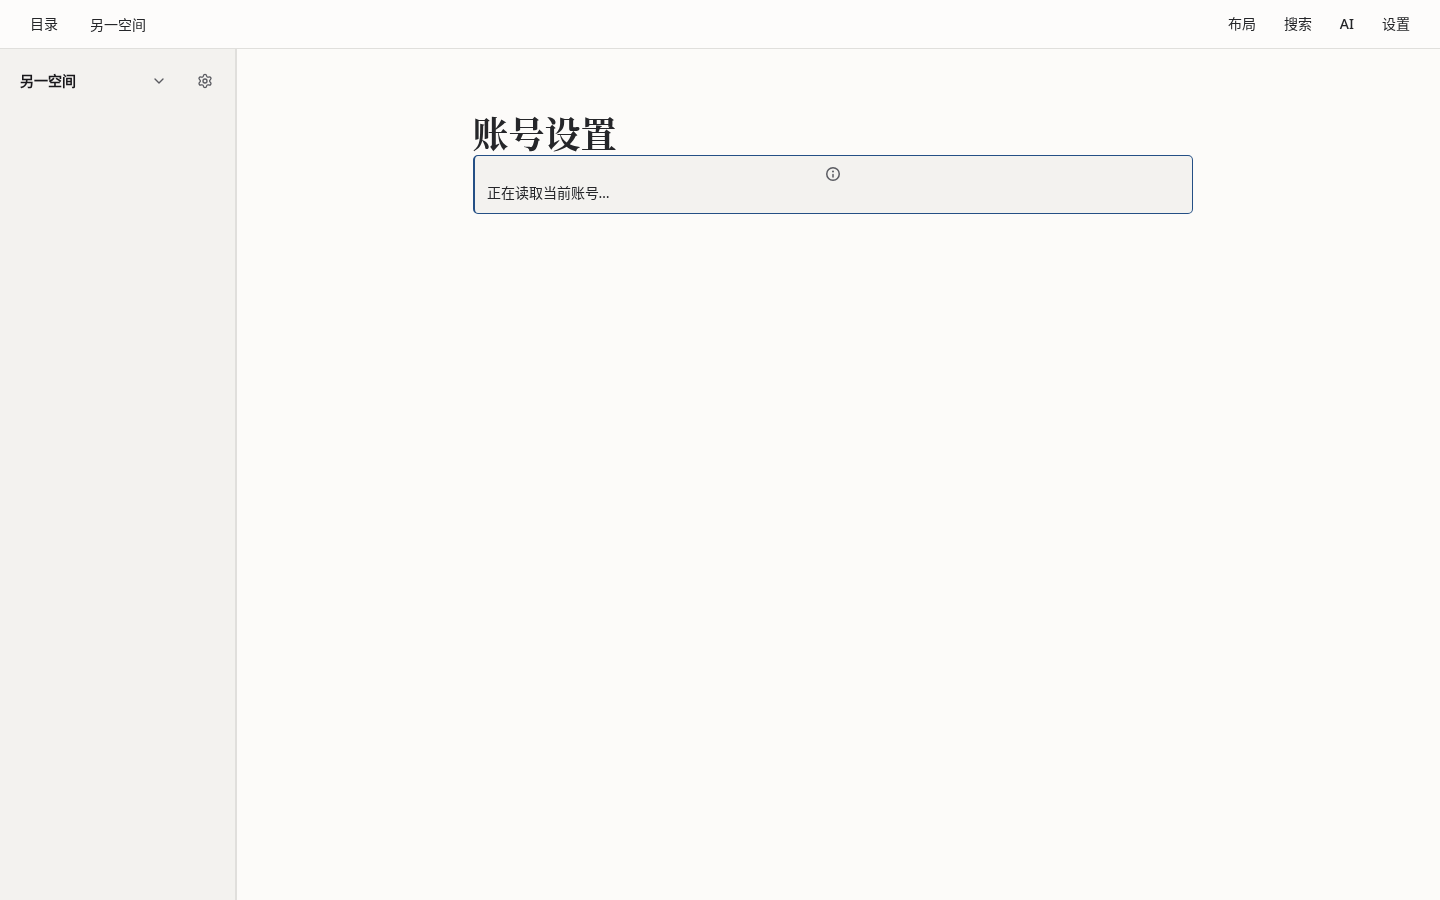
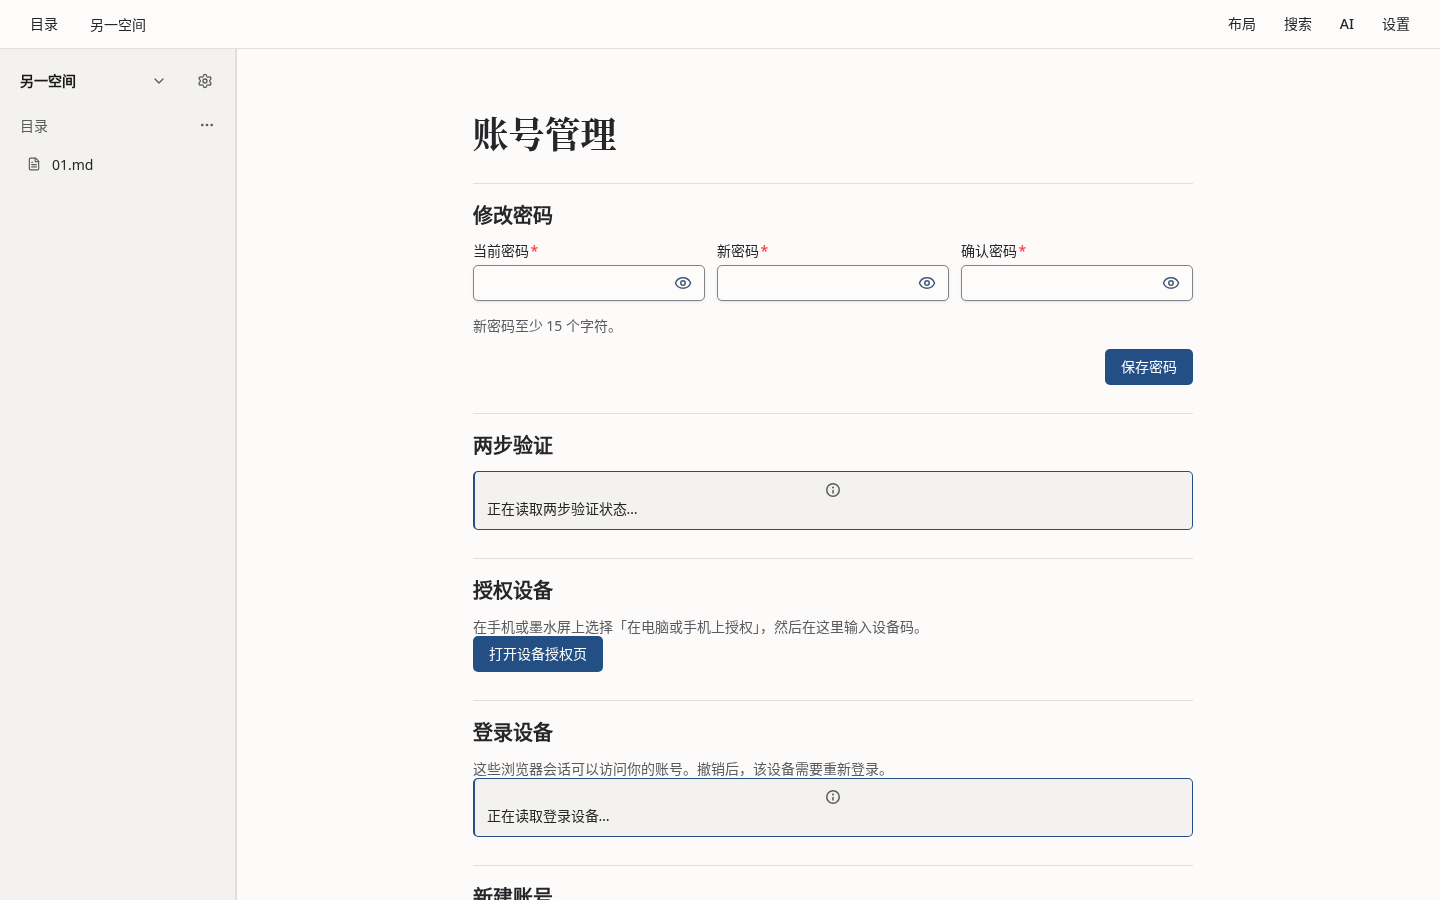
docs: refresh password field evidence after review
Recapture the account pages in their loaded state, add the 320 px /
200% password-form view, and record the accessibility, reset, and
short-confirmation fixes from the fresh-context review.

diff --git a/docs/librarian/evidence/password-confirmation-2026-11-24/README.md b/docs/librarian/evidence/password-confirmation-2026-11-24/README.md
@@ -1,23 +1,26 @@
 # 密码确认与内嵌查看图标验收（2026-11-24）
 
 - 产品分支：`feat/librarian-public-hardening`
-- 产品提交：`1896ddc8`（前置格式整理：`7d9f581c`）
+- 产品提交：`2bd559b8`（功能 `1896ddc8`，格式整理 `7d9f581c`，初版证据 `44a55630`）
 - 范围：邀请接受、管理员新建账号、管理员重置密码、用户修改密码、登录页。
 - 用户决定：密码最短长度保持 15；恢复码行为不变；登录页不加确认密码；查看密码使用输入框内的小眼睛图标。
 
 ## 结果
 
 - 四处设置密码的表单均增加「确认密码」。两次不一致时不发 API 请求，显示「两次输入的密码不一致。」，焦点移到确认框，已输入内容保留。
-- 眼睛按钮是输入框内的原生按钮，没有独立底色或边框；可访问名称为「显示密码」「隐藏密码」「显示确认密码」等，`aria-pressed` 反映状态。
+- 确认框通过 `aria-describedby` 关联错误文本；确认框的 `aria-invalid` 与错误提示在同一次提交后生效，读屏可重新读取原因。
+- 眼睛按钮是输入框内的原生按钮，没有独立底色或边框；可访问名称为「显示密码」「隐藏密码」「显示确认密码」等。名称随状态变化，因此不使用会冲突的 `aria-pressed`。
 - 登录页原来的「显示密码」文字按钮替换为内嵌图标。
-- 邀请页 TOTP 长密钥可以换行；320 CSS px + 200% 字号不再横向溢出。
-- 证据截图不包含 TOTP secret；邀请页只截取密码表单区域。
+- 新建账号成功后或表单 `reset()` 后，密码框会重新挂载为掩码状态，不会把下一个密码显示成明文。
+- 确认密码只校验是否一致，不再用 `minLength` 抢先拦截短值；短确认也会显示自定义不一致提示。
+- 密码框关闭浏览器拼写检查和自动首字母大写。
+- 邀请页 TOTP 长密钥可以换行；320 CSS px + 200% 字号下登录、邀请、账号页均不横向溢出。
+- 邀请页只截取密码表单区域，不把 TOTP secret 保存到仓库。
 
 ## 测量
 
 - 390 px 邀请页：密码输入框 `x=51.6875, width=286.625, height=48`；眼睛按钮 `x=294.3125, width=44, height=48`，位于输入框内部。
-- 320 px、200% 字号：登录页与邀请页 `document.documentElement.scrollWidth = 320`。
-- 登录页 320 px、200% 字号：眼睛按钮 44×44 CSS px 以上，Tab 顺序为密码输入框 → 眼睛按钮。
+- 320 px、200% 字号：登录页、邀请页、账号页 `document.documentElement.scrollWidth = 320`。
 
 ## 自动化
 
@@ -40,16 +43,22 @@ document-login document-invite document-accounts
 
 新增覆盖：
 
-- 登录：眼睛图标在输入框矩形内、Tab 聚焦、图标 `eye`/`eye-off` 切换、最小 44×44。
-- 邀请：不一致时不发 accept 请求、错误与焦点、密码/确认密码独立显示隐藏、320 px + 200% 不溢出。
-- 账号：新建账号、重置密码、修改密码都先验证不一致分支，再完成成功路径；新建账号额外断言不一致时 POST 次数为 0。
+- 登录：眼睛图标在输入框矩形内、Tab 聚焦、图标 `eye`/`eye-off` 切换、最小 44×44、无 `aria-pressed`、无确认密码、拼写/大小写属性。
+- 邀请：表单有可访问名称；不一致时不发 accept 请求、错误与焦点、确认框可读取错误描述、密码/确认密码独立显示隐藏、320 px + 200% 不溢出。
+- 账号：新建账号、重置密码、修改密码都先验证不一致分支，再完成成功路径；新建账号额外断言不一致时 POST 次数为 0、成功创建后确认框错误可读取、成功创建后密码框回到掩码、短确认仍显示自定义错误、旧成功提示被清除。
+- 账号页 320 px + 200% 字号下确认框可见且页面不横向溢出。
 
 ## 画面
 
 - `login-1440.png`、`login-390.png`、`login-320-200.png`
 - `invite-form-1440-mismatch.png`、`invite-form-1440-visible.png`、`invite-form-390.png`、`invite-form-320-200.png`
-- `accounts-1440.png`、`accounts-390.png`、`accounts-create-390-mismatch.png`
+- `accounts-1440.png`、`accounts-390.png`、`accounts-create-390-mismatch.png`、`accounts-password-320-200.png`
+
+## 剩余非阻塞项
+
+- 四个表单的确认密码接线仍重复；后续可抽成组合控件。
+- 图标宽高共用 `--password-reveal-size`，但焦点轮廓的圆角仍使用通用 `--radius`，与登录页较大的输入框圆角不完全一致。
 
 ## 结论
 
-通过。需要部署后在公网邀请页和账号页复验一次；部署不由本次本地验证自动执行。
+通过本地验证。需要部署后在公网邀请页和账号页复验一次。
